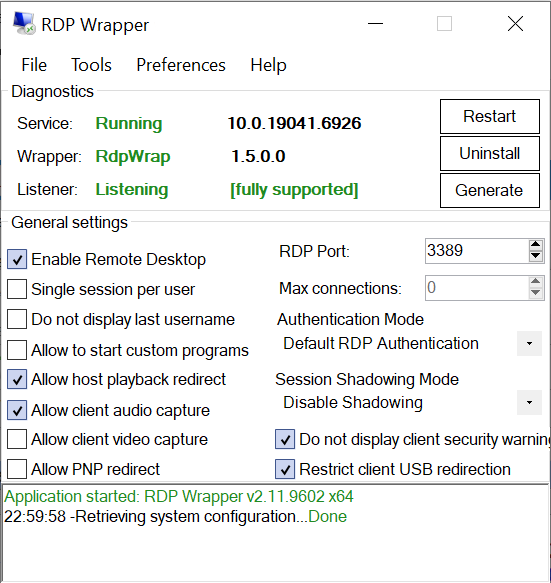
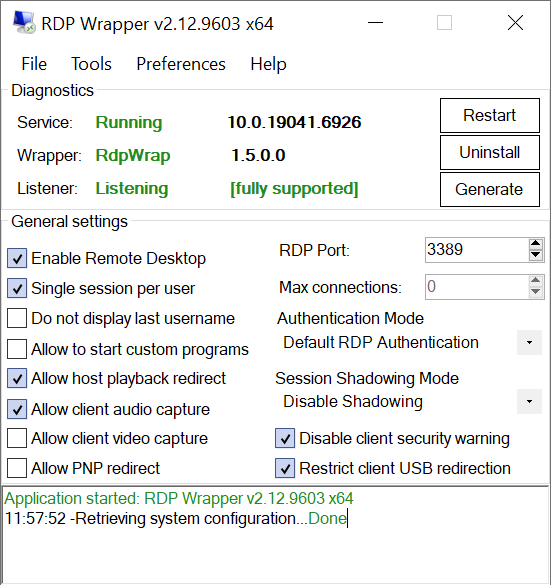
"Do not display client security warning" changed to "Disable client security warning"

diff --git a/rdpWrapper/MainForm.Designer.cs b/rdpWrapper/MainForm.Designer.cs
@@ -29,7 +29,7 @@ namespace rdpWrapper {
       this.btnRestartService = new System.Windows.Forms.Button();
       this.gbxGeneralSettings = new System.Windows.Forms.GroupBox();
       this.cbxRestrictClientUsbRedirection = new System.Windows.Forms.CheckBox();
-      this.cbxDontDisplaySecurityWarning = new System.Windows.Forms.CheckBox();
+      this.cbxDisableSecurityWarning = new System.Windows.Forms.CheckBox();
       this.lblMaxConnections = new System.Windows.Forms.Label();
       this.numMaxConnections = new System.Windows.Forms.NumericUpDown();
       this.cbxAllowAudioCapture = new System.Windows.Forms.CheckBox();
@@ -184,7 +184,7 @@ namespace rdpWrapper {
       // gbxGeneralSettings
       // 
       this.gbxGeneralSettings.Controls.Add(this.cbxRestrictClientUsbRedirection);
-      this.gbxGeneralSettings.Controls.Add(this.cbxDontDisplaySecurityWarning);
+      this.gbxGeneralSettings.Controls.Add(this.cbxDisableSecurityWarning);
       this.gbxGeneralSettings.Controls.Add(this.lblMaxConnections);
       this.gbxGeneralSettings.Controls.Add(this.numMaxConnections);
       this.gbxGeneralSettings.Controls.Add(this.cbxAllowAudioCapture);
@@ -204,7 +204,7 @@ namespace rdpWrapper {
       this.gbxGeneralSettings.Dock = System.Windows.Forms.DockStyle.Top;
       this.gbxGeneralSettings.Location = new System.Drawing.Point(0, 109);
       this.gbxGeneralSettings.Name = "gbxGeneralSettings";
-      this.gbxGeneralSettings.Size = new System.Drawing.Size(372, 176);
+      this.gbxGeneralSettings.Size = new System.Drawing.Size(372, 178);
       this.gbxGeneralSettings.TabIndex = 2;
       this.gbxGeneralSettings.TabStop = false;
       this.gbxGeneralSettings.Text = "General settings";
@@ -220,12 +220,12 @@ namespace rdpWrapper {
       // 
       // cbxDontDisplayWarning
       // 
-      this.cbxDontDisplaySecurityWarning.AutoSize = true;
-      this.cbxDontDisplaySecurityWarning.Location = new System.Drawing.Point(183, 140);
-      this.cbxDontDisplaySecurityWarning.Name = "cbxDontDisplayWarning";
-      this.cbxDontDisplaySecurityWarning.Size = new System.Drawing.Size(192, 17);
-      this.cbxDontDisplaySecurityWarning.TabIndex = 16;
-      this.cbxDontDisplaySecurityWarning.Text = "Do not display client security warning";
+      this.cbxDisableSecurityWarning.AutoSize = true;
+      this.cbxDisableSecurityWarning.Location = new System.Drawing.Point(183, 140);
+      this.cbxDisableSecurityWarning.Name = "cbxDontDisplayWarning";
+      this.cbxDisableSecurityWarning.Size = new System.Drawing.Size(192, 17);
+      this.cbxDisableSecurityWarning.TabIndex = 16;
+      this.cbxDisableSecurityWarning.Text = "Disable client security warning";
       // 
       // lblMaxConnections
       // 
@@ -774,7 +774,7 @@ namespace rdpWrapper {
     private ToolStripSeparator toolStripMenuItem4;
     private Label lblMaxConnections;
     private NumericUpDown numMaxConnections;
-    private CheckBox cbxDontDisplaySecurityWarning;
+    private CheckBox cbxDisableSecurityWarning;
     private CheckBox cbxRestrictClientUsbRedirection;
   }
 }

diff --git a/rdpWrapper/MainForm.cs b/rdpWrapper/MainForm.cs
@@ -104,7 +104,7 @@ namespace rdpWrapper {
         cbxSingleSessionPerUser.CheckedChanged += (_, _) => { wrapper.SingleSessionPerUser = cbxSingleSessionPerUser.Checked; };
         cbxAllowTSConnections.CheckedChanged += (_, _) => { wrapper.AllowTsConnections = cbxAllowTSConnections.Checked; };
         cbDontDisplayLastUser.CheckedChanged += (_, _) => { wrapper.DontDisplayLastUser = cbDontDisplayLastUser.Checked; };
-        cbxDontDisplaySecurityWarning.CheckedChanged += (_, _) => { wrapper.DontDisplaySecurityWarning = cbxDontDisplaySecurityWarning.Checked; };
+        cbxDisableSecurityWarning.CheckedChanged += (_, _) => { wrapper.DisableSecurityWarning = cbxDisableSecurityWarning.Checked; };
         cbxRestrictClientUsbRedirection.CheckedChanged += (_, _) => { wrapper.RestrictUsbRedirection = cbxRestrictClientUsbRedirection.Checked; };
         rgShadowOptions.SelectedIndexChanged += (_, _) => { wrapper.ShadowOptions = rgShadowOptions.SelectedIndex; };
         cbxHonorLegacy.CheckedChanged += (_, _) => { wrapper.HonorLegacy = cbxHonorLegacy.Checked; };
@@ -253,7 +253,7 @@ namespace rdpWrapper {
 
         rgShadowOptions.SelectedIndex = wrapper.ShadowOptions;
         cbDontDisplayLastUser.Checked = wrapper.DontDisplayLastUser;
-        cbxDontDisplaySecurityWarning.Checked = wrapper.DontDisplaySecurityWarning;
+        cbxDisableSecurityWarning.Checked = wrapper.DisableSecurityWarning;
         cbxRestrictClientUsbRedirection.Checked = wrapper.RestrictUsbRedirection.Value;
         cbxAllowPlaybackRedirect.Checked = wrapper.AllowHostPlaybackRedirect;
         cbxAllowAudioCapture.Checked = wrapper.AllowClientAudioCapture;

diff --git a/rdpWrapper/Properties/AssemblyInfo.cs b/rdpWrapper/Properties/AssemblyInfo.cs
@@ -14,4 +14,4 @@ using System.Runtime.InteropServices;
 
 [assembly: Guid("3768507d-4e38-4ec7-8f1d-c9347ac45a5e")]
 
-[assembly: AssemblyVersion("2.11.*")]
+[assembly: AssemblyVersion("2.12.*")]

diff --git a/rdpWrapper/Wrapper.cs b/rdpWrapper/Wrapper.cs
@@ -334,7 +334,7 @@ namespace rdpWrapper {
       }
     }
 
-    internal bool DontDisplaySecurityWarning {
+    internal bool DisableSecurityWarning {
       get {
         using (var baseKey = RegistryKey.OpenBaseKey(RegistryHive.LocalMachine, registryView))
         using (var key = baseKey.OpenSubKey(RegTsKey + "\\Client"))